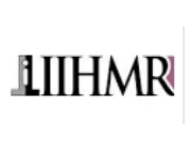
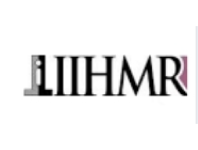
hero section

Changed region(s): [[0.0541, 0.3467, 0.973, 0.6667]]

diff --git a/aignosis/src/components/Partner.jsx b/aignosis/src/components/Partner.jsx
@@ -12,11 +12,30 @@ import com10 from '../assets/images/sponsered/image 108.png'
 import com11 from '../assets/images/sponsered/image 112.png'
 import com12 from '../assets/images/sponsered/image 113.png'
 import com13 from '../assets/images/sponsered/image 114.png'
+import com14 from '../assets/images/sponsered/image 70.png'
+import com15 from '../assets/images/sponsered/image 71.png'
+import com16 from '../assets/images/sponsered/image 72.png'
+import com17 from '../assets/images/sponsered/image 73.png'
+import com18 from '../assets/images/sponsered/image 74.png'
+import com19 from '../assets/images/sponsered/image 75.png'
+import com20 from '../assets/images/sponsered/image 95.png'
+import com21 from '../assets/images/sponsered/image 99.png'
+import com22 from '../assets/images/sponsered/image 100.png'
+import com23 from '../assets/images/sponsered/image 101.png'
 
 import './partner.css'
 
-const logos = [com1, com2, com3, com4, com5, com6, com7, com8, com9, com10, com11, com12, com13];
+const logos = [com1, com2, com3, com4, com5, com6, com7, com8, com9, com10, com11, com12, com13, com14, com15, com16, com17, com18, com19, com20, com21, com22, com23];
 
+
+const shuffledLogos = [...logos]; // Create a copy of the array
+for (let i = shuffledLogos.length - 1; i > 0; i--) {
+    const j = Math.floor(Math.random() * (i + 1));
+    [shuffledLogos[i], shuffledLogos[j]] = [shuffledLogos[j], shuffledLogos[i]]; // Swap elements
+}
+
+// Reverse the shuffled array
+const reversedShuffledLogos = shuffledLogos.reverse();
 const Partner = () => {
   return (
     <div className="bg-white overflow-hidden max-w-full min-h-[30vw] justify-center items-center flex flex-col mb-[2vw] text-white py-10 px-6 text-center">
@@ -34,7 +53,7 @@ const Partner = () => {
 
       <div className="marquee-container mt-[2vw]">
         <div className="marquee marquee-speed-2">
-          {logos.concat(logos).map((img, index) => (
+          {reversedShuffledLogos.concat(logos).map((img, index) => (
             <img key={`loop2-${index}`} className="marquee-image" src={img} alt={`Sponsor ${index + 1}`} />
           ))}
         </div>

diff --git a/aignosis/src/components/InnerPages/HeroSection.jsx b/aignosis/src/components/InnerPages/HeroSection.jsx
@@ -18,9 +18,9 @@ const HeroSection = () => {
         const applyAnimations = () => {
             if (window.innerWidth >= 768) {
                 heroElements = [
-                    { id: "#bgvdo", x: '0', y: "0", scale: 0.5, start: "top=40px bottom+=100px" },
-                    { id: "#textright", x: '-20vw', y: '0px', start: "top=50px bottom+=100px" },
-                    { id: "#textleft", x: '20vw', y: '0px', start: "top=50px bottom+=100px" },
+                    { id: "#bgvdo", x: '0', y: "0", scale: 0.5, start: "top=40px bottom+=100px", duration:2, scrub: true },
+                    { id: "#textright", x: '-20vw', y: '0px', start: "top=50px bottom+=100px", duration:2  },
+                    { id: "#textleft", x: '20vw', y: '0px', start: "top=50px bottom+=100px", duration:2  },
                 ];
                 // before 768px
             }
@@ -75,8 +75,8 @@ const HeroSection = () => {
                 autoPlay
                 muted src={img1} alt="" className='w-full h-screen opacity-90 relative object-cover' ></video>
             <div className='w-full h-full absolute flex-col flex justify-center items-center'>
-                <div className="w-full">
-                    <h1 className="flex justify-center text-center text-fuchsia-50 tracking-tight text-3xl font-semibold">
+                <div className="w-full overflow-hidden">
+                    <h1 className="flex justify-center text-center text-fuchsia-50 tracking-tight text-6xl font-semibold">
                         <span id='textright' className="block"> Frontier AI for Your Child’s</span>
                         <span id='textleft' className="block">&nbsp; Best Development </span>
                     </h1>

diff --git a/aignosis/src/components/Laptop.jsx b/aignosis/src/components/Laptop.jsx
@@ -11,7 +11,7 @@ const Laptop = () => {
             loop
             autoPlay
             muted
-            className="border-[26px] border-[#a19e9e6e] rounded-[22px] w-3/5 mx-auto"
+            className="border-[26px] border-[#a19e9e6e] rounded-[22px] w-[80%] mx-auto"
           >
             <source src={aivideo} type="video/mp4" />
             Your browser does not support the video tag.

diff --git a/aignosis/src/components/partner.css b/aignosis/src/components/partner.css
@@ -38,10 +38,10 @@
   
   /* Apply different speeds */
   .marquee-speed-1 {
-    animation: marquee1 20s linear infinite;
+    animation: marquee1 25s linear infinite;
   }
   
   .marquee-speed-2 {
-    animation: marquee2 55s linear infinite;
+    animation: marquee2 10s linear infinite;
   }
   
